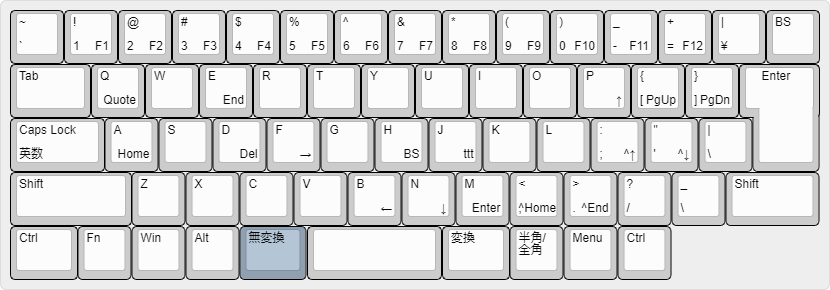
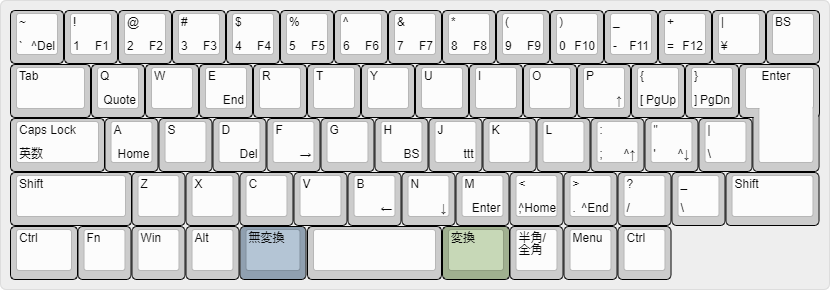
docs: update README.md

Changed region(s): [[0.512, 0.7759, 0.6325, 0.9621], [0.0301, 0.1241, 0.0602, 0.1862]]

diff --git a/img/keyboard-layout.md b/img/keyboard-layout.md
@@ -7,9 +7,22 @@ keyboard-layout.png の作成方法
 - `</> Raw data` に以下をコピペし `Download` - `Download PNG` を選択
 
 ``` json
-["~\n`","!\n1\n\nF1","@\n2\n\nF2","#\n3\n\nF3","$\n4\n\nF4","%\n5\n\nF5","^\n6\n\nF6","&\n7\n\nF7","*\n8\n\nF8","(\n9\n\nF9",")\n0\n\nF10","_\n-\n\nF11","+\n=\n\nF12","|\n¥","BS"],
+["~\n`\n\n^Del","!\n1\n\nF1","@\n2\n\nF2","#\n3\n\nF3","$\n4\n\nF4","%\n5\n\nF5","^\n6\n\nF6","&\n7\n\nF7","*\n8\n\nF8","(\n9\n\nF9",")\n0\n\nF10","_\n-\n\nF11","+\n=\n\nF12","|\n¥","BS"],
 [{w:1.5},"Tab","Q\n\n\nQuote","W","E\n\n\nEnd","R","T","Y","U","I","O","P\n\n\n↑","{\n[\n\nPgUp","}\n]\n\nPgDn",{x:0.25,w:1.25,h:2,w2:1.5,h2:1,x2:-0.25},"Enter"],
 [{w:1.75},"Caps Lock\n英数","A\n\n\nHome","S","D\n\n\nDel","F\n\n\n→","G","H\n\n\nBS","J\n\n\nttt","K","L",":\n;\n\n^↑","\"\n'\n\n^↓","|\n\\"],
 [{w:2.25},"Shift","Z","X","C","V","B\n\n\n←","N\n\n\n↓","M\n\n\nEnter","<\n,\n\n^Home",">\n.\n\n^End","?\n/","_\n\\",{w:1.75},"Shift"],
-[{w:1.25},"Ctrl","Fn","Win","Alt",{c:"#90a0b0",w:1.25},"無変換",{c:"#cccccc",a:7,w:2.5},"",{a:4,w:1.25},"変換","半角/全角","Menu","Ctrl"]
+[{w:1.25},"Ctrl","Fn","Win","Alt",{c:"#90a0b0",w:1.25},"無変換",{c:"#cccccc",a:7,w:2.5},"",{c:"#a0b090",a:4,w:1.25},"変換",{c:"#cccccc"},"半角/全角","Menu","Ctrl"]
+```
+
+keyboard-layout-hhkb.png の作成方法
+
+- `Preset` - `Default 60%` を選択
+- `</> Raw data` に以下をコピペし `Download` - `Download PNG` を選択
+
+``` json
+["Esc","!\n1\n\nF1","@\n2\n\nF2","#\n3\n\nF3","$\n4\n\nF4","%\n5\n\nF5","^\n6\n\nF6","&\n7\n\nF7","*\n8\n\nF8","(\n9\n\nF9",")\n0\n\nF10","_\n-\n\nF11","+\n=\n\nF12","|\n\\","~\n`\n\n^Del"],
+[{w:1.5},"Tab","Q\n\n\nQuote","W","E\n\n\nEnd","R","T","Y","U","I","O","P\n\n\n↑","{\n[\n\nPgUp","}\n]\n\nPgDn",{w:1.5},"BS"],
+[{c:"#90a0b0",w:1.75},"Control",{c:"#cccccc"},"A\n\n\nHome","S","D\n\n\nDel","F\n\n\n→","G","H\n\n\nBS","J\n\n\nttt","K","L",":\n;\n\n^↑","\"\n'\n\n^↓",{w:2.25},"Enter"],
+[{w:2.25},"Shift","Z","X","C","V","B\n\n\n←","N\n\n\n↓","M\n\n\nEnter","<\n,\n\n^Home",">\n.\n\n^End","?\n/",{w:1.75},"Shift","Fn"],
+[{x:1.5},"Alt",{w:1.5},"◇",{a:7,w:6},"",{a:4,w:1.5},"◇",{c:"#a0b090"},"Ctrl"]
 ```

diff --git a/README.md b/README.md
@@ -65,6 +65,8 @@ wmacs では `RCtrl` として `変換-` が割り当てられています。
 
 ## HHKB (英語配列) で wmacs を使う
 
+![wmacs](img/keyboard-layout-hhkb.png)
+
 wmacs は HHKB 英語配列で使うこともできます。
 HHKB 英語配列には `無変換` (`LCtrl`) も `変換` (`RCtrl`) もありませんが、`LCtrl` については、打鍵しやすい位置にある `Control` を使えばよいでしょう。
 `RCtrl` については、 wmacs のメニューの `Remap RAlt to RCtrl` にチェックを入れると、 `RAlt` が `RCtrl` として使えるようになります。
